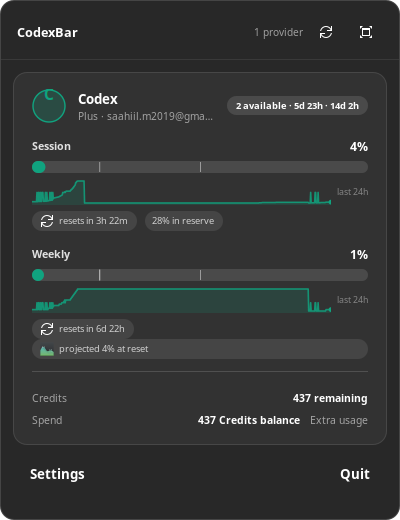
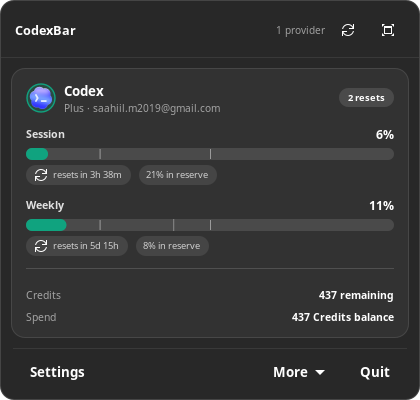
Refresh README tray panel screenshot

diff --git a/README.md b/README.md
@@ -15,9 +15,9 @@ and no packaging of its own. It consumes the JSON the CodexBar CLI already emits
 
 ![The usage dashboard](docs/dashboard.png)
 
-| The compact panel | The spending page |
+| Compact tray panel with provider branding | The spending page |
 | --- | --- |
-| ![The compact panel](docs/panel.png) | ![The spending page](docs/spending.png) |
+| ![Compact tray panel showing the Codex logo](docs/panel.png) | ![The spending page](docs/spending.png) |
 
 ## What it does
 
